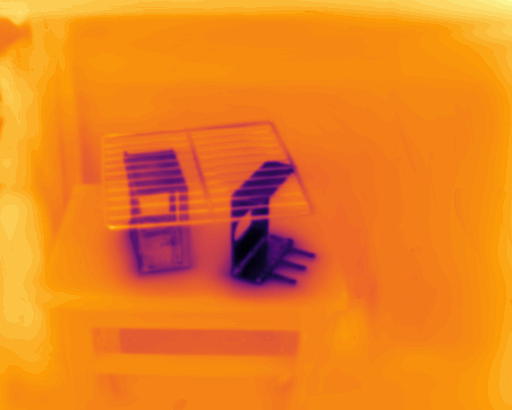
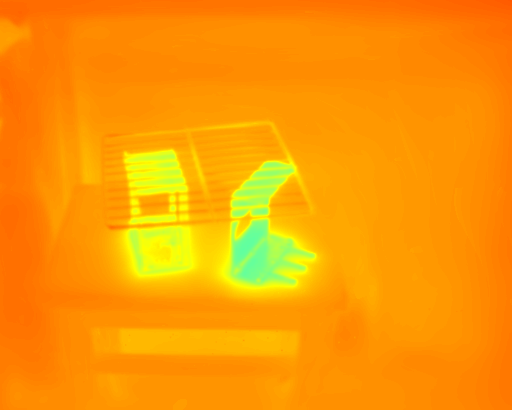
Match RHD pseudo-color palette

diff --git a/README.md b/README.md
@@ -10,48 +10,48 @@ Temporal PhysIR-Splat represents thermal infrared image formation with Gaussian 
 
 ## RHD Results
 
-The gallery shows representative RHD test renderings. Each sample shows grayscale / pseudo-color. `t` is the normalized timestamp used by the temporal renderer.
+The gallery shows representative RHD test renderings. Each sample shows grayscale / RHD-style pseudo-color. `t` is the normalized timestamp used by the temporal renderer.
 
 <table>
 <tr>
-<td width="50%"><img src="assets/rhd_results/cooling_bench_top1_00012.png" width="176"> <img src="assets/rhd_results_pseudo/cooling_bench_top1_00012.png" width="176"><br><sub>gray / pseudo-color</sub><br><b>cooling_bench</b> / view 00012.png<br>t=0.6043, PSNR=46.43, SSIM=0.9939, LPIPS=0.0340</td>
-<td width="50%"><img src="assets/rhd_results/cooling_bench_top2_00023.png" width="176"> <img src="assets/rhd_results_pseudo/cooling_bench_top2_00023.png" width="176"><br><sub>gray / pseudo-color</sub><br><b>cooling_bench</b> / view 00023.png<br>t=0.8952, PSNR=46.22, SSIM=0.9948, LPIPS=0.0288</td>
+<td width="50%"><img src="assets/rhd_results/cooling_bench_top1_00012.png" width="176"> <img src="assets/rhd_results_pseudo/cooling_bench_top1_00012.png" width="176"><br><sub>gray / RHD pseudo</sub><br><b>cooling_bench</b> / view 00012.png<br>t=0.6043, PSNR=46.43, SSIM=0.9939, LPIPS=0.0340</td>
+<td width="50%"><img src="assets/rhd_results/cooling_bench_top2_00023.png" width="176"> <img src="assets/rhd_results_pseudo/cooling_bench_top2_00023.png" width="176"><br><sub>gray / RHD pseudo</sub><br><b>cooling_bench</b> / view 00023.png<br>t=0.8952, PSNR=46.22, SSIM=0.9948, LPIPS=0.0288</td>
 </tr>
 <tr>
-<td width="50%"><img src="assets/rhd_results/cooling_checkboard_top1_00017.png" width="176"> <img src="assets/rhd_results_pseudo/cooling_checkboard_top1_00017.png" width="176"><br><sub>gray / pseudo-color</sub><br><b>cooling_checkboard</b> / view 00017.png<br>t=0.6460, PSNR=50.76, SSIM=0.9950, LPIPS=0.0258</td>
-<td width="50%"><img src="assets/rhd_results/cooling_checkboard_top2_00016.png" width="176"> <img src="assets/rhd_results_pseudo/cooling_checkboard_top2_00016.png" width="176"><br><sub>gray / pseudo-color</sub><br><b>cooling_checkboard</b> / view 00016.png<br>t=0.6436, PSNR=50.68, SSIM=0.9951, LPIPS=0.0299</td>
+<td width="50%"><img src="assets/rhd_results/cooling_checkboard_top1_00017.png" width="176"> <img src="assets/rhd_results_pseudo/cooling_checkboard_top1_00017.png" width="176"><br><sub>gray / RHD pseudo</sub><br><b>cooling_checkboard</b> / view 00017.png<br>t=0.6460, PSNR=50.76, SSIM=0.9950, LPIPS=0.0258</td>
+<td width="50%"><img src="assets/rhd_results/cooling_checkboard_top2_00016.png" width="176"> <img src="assets/rhd_results_pseudo/cooling_checkboard_top2_00016.png" width="176"><br><sub>gray / RHD pseudo</sub><br><b>cooling_checkboard</b> / view 00016.png<br>t=0.6436, PSNR=50.68, SSIM=0.9951, LPIPS=0.0299</td>
 </tr>
 <tr>
-<td width="50%"><img src="assets/rhd_results/cooling_dumbbels_top1_00004.png" width="176"> <img src="assets/rhd_results_pseudo/cooling_dumbbels_top1_00004.png" width="176"><br><sub>gray / pseudo-color</sub><br><b>cooling_dumbbels</b> / view 00004.png<br>t=0.0878, PSNR=44.13, SSIM=0.9944, LPIPS=0.0193</td>
-<td width="50%"><img src="assets/rhd_results/cooling_dumbbels_top2_00023.png" width="176"> <img src="assets/rhd_results_pseudo/cooling_dumbbels_top2_00023.png" width="176"><br><sub>gray / pseudo-color</sub><br><b>cooling_dumbbels</b> / view 00023.png<br>t=0.8137, PSNR=43.55, SSIM=0.9951, LPIPS=0.0179</td>
+<td width="50%"><img src="assets/rhd_results/cooling_dumbbels_top1_00004.png" width="176"> <img src="assets/rhd_results_pseudo/cooling_dumbbels_top1_00004.png" width="176"><br><sub>gray / RHD pseudo</sub><br><b>cooling_dumbbels</b> / view 00004.png<br>t=0.0878, PSNR=44.13, SSIM=0.9944, LPIPS=0.0193</td>
+<td width="50%"><img src="assets/rhd_results/cooling_dumbbels_top2_00023.png" width="176"> <img src="assets/rhd_results_pseudo/cooling_dumbbels_top2_00023.png" width="176"><br><sub>gray / RHD pseudo</sub><br><b>cooling_dumbbels</b> / view 00023.png<br>t=0.8137, PSNR=43.55, SSIM=0.9951, LPIPS=0.0179</td>
 </tr>
 <tr>
-<td width="50%"><img src="assets/rhd_results/cooling_ebike_top1_00027.png" width="176"> <img src="assets/rhd_results_pseudo/cooling_ebike_top1_00027.png" width="176"><br><sub>gray / pseudo-color</sub><br><b>cooling_ebike</b> / view 00027.png<br>t=0.8617, PSNR=48.55, SSIM=0.9957, LPIPS=0.0107</td>
-<td width="50%"><img src="assets/rhd_results/cooling_ebike_top2_00036.png" width="176"> <img src="assets/rhd_results_pseudo/cooling_ebike_top2_00036.png" width="176"><br><sub>gray / pseudo-color</sub><br><b>cooling_ebike</b> / view 00036.png<br>t=0.8861, PSNR=47.54, SSIM=0.9953, LPIPS=0.0126</td>
+<td width="50%"><img src="assets/rhd_results/cooling_ebike_top1_00027.png" width="176"> <img src="assets/rhd_results_pseudo/cooling_ebike_top1_00027.png" width="176"><br><sub>gray / RHD pseudo</sub><br><b>cooling_ebike</b> / view 00027.png<br>t=0.8617, PSNR=48.55, SSIM=0.9957, LPIPS=0.0107</td>
+<td width="50%"><img src="assets/rhd_results/cooling_ebike_top2_00036.png" width="176"> <img src="assets/rhd_results_pseudo/cooling_ebike_top2_00036.png" width="176"><br><sub>gray / RHD pseudo</sub><br><b>cooling_ebike</b> / view 00036.png<br>t=0.8861, PSNR=47.54, SSIM=0.9953, LPIPS=0.0126</td>
 </tr>
 <tr>
-<td width="50%"><img src="assets/rhd_results/heat_transfer_top1_00010.png" width="176"> <img src="assets/rhd_results_pseudo/heat_transfer_top1_00010.png" width="176"><br><sub>gray / pseudo-color</sub><br><b>heat_transfer</b> / view 00010.png<br>t=0.3510, PSNR=46.87, SSIM=0.9949, LPIPS=0.0403</td>
-<td width="50%"><img src="assets/rhd_results/heat_transfer_top2_00009.png" width="176"> <img src="assets/rhd_results_pseudo/heat_transfer_top2_00009.png" width="176"><br><sub>gray / pseudo-color</sub><br><b>heat_transfer</b> / view 00009.png<br>t=0.3485, PSNR=46.74, SSIM=0.9957, LPIPS=0.0376</td>
+<td width="50%"><img src="assets/rhd_results/heat_transfer_top1_00010.png" width="176"> <img src="assets/rhd_results_pseudo/heat_transfer_top1_00010.png" width="176"><br><sub>gray / RHD pseudo</sub><br><b>heat_transfer</b> / view 00010.png<br>t=0.3510, PSNR=46.87, SSIM=0.9949, LPIPS=0.0403</td>
+<td width="50%"><img src="assets/rhd_results/heat_transfer_top2_00009.png" width="176"> <img src="assets/rhd_results_pseudo/heat_transfer_top2_00009.png" width="176"><br><sub>gray / RHD pseudo</sub><br><b>heat_transfer</b> / view 00009.png<br>t=0.3485, PSNR=46.74, SSIM=0.9957, LPIPS=0.0376</td>
 </tr>
 <tr>
-<td width="50%"><img src="assets/rhd_results/heating_workpieces_top1_00013.png" width="176"> <img src="assets/rhd_results_pseudo/heating_workpieces_top1_00013.png" width="176"><br><sub>gray / pseudo-color</sub><br><b>heating_workpieces</b> / view 00013.png<br>t=0.4438, PSNR=45.82, SSIM=0.9960, LPIPS=0.0177</td>
-<td width="50%"><img src="assets/rhd_results/heating_workpieces_top2_00007.png" width="176"> <img src="assets/rhd_results_pseudo/heating_workpieces_top2_00007.png" width="176"><br><sub>gray / pseudo-color</sub><br><b>heating_workpieces</b> / view 00007.png<br>t=0.4243, PSNR=44.77, SSIM=0.9961, LPIPS=0.0165</td>
+<td width="50%"><img src="assets/rhd_results/heating_workpieces_top1_00013.png" width="176"> <img src="assets/rhd_results_pseudo/heating_workpieces_top1_00013.png" width="176"><br><sub>gray / RHD pseudo</sub><br><b>heating_workpieces</b> / view 00013.png<br>t=0.4438, PSNR=45.82, SSIM=0.9960, LPIPS=0.0177</td>
+<td width="50%"><img src="assets/rhd_results/heating_workpieces_top2_00007.png" width="176"> <img src="assets/rhd_results_pseudo/heating_workpieces_top2_00007.png" width="176"><br><sub>gray / RHD pseudo</sub><br><b>heating_workpieces</b> / view 00007.png<br>t=0.4243, PSNR=44.77, SSIM=0.9961, LPIPS=0.0165</td>
 </tr>
 <tr>
-<td width="50%"><img src="assets/rhd_results/warming_bottles_top1_00016.png" width="176"> <img src="assets/rhd_results_pseudo/warming_bottles_top1_00016.png" width="176"><br><sub>gray / pseudo-color</sub><br><b>warming_bottles</b> / view 00016.png<br>t=0.7008, PSNR=44.98, SSIM=0.9938, LPIPS=0.0837</td>
-<td width="50%"><img src="assets/rhd_results/warming_bottles_top2_00014.png" width="176"> <img src="assets/rhd_results_pseudo/warming_bottles_top2_00014.png" width="176"><br><sub>gray / pseudo-color</sub><br><b>warming_bottles</b> / view 00014.png<br>t=0.6920, PSNR=44.94, SSIM=0.9938, LPIPS=0.0879</td>
+<td width="50%"><img src="assets/rhd_results/warming_bottles_top1_00016.png" width="176"> <img src="assets/rhd_results_pseudo/warming_bottles_top1_00016.png" width="176"><br><sub>gray / RHD pseudo</sub><br><b>warming_bottles</b> / view 00016.png<br>t=0.7008, PSNR=44.98, SSIM=0.9938, LPIPS=0.0837</td>
+<td width="50%"><img src="assets/rhd_results/warming_bottles_top2_00014.png" width="176"> <img src="assets/rhd_results_pseudo/warming_bottles_top2_00014.png" width="176"><br><sub>gray / RHD pseudo</sub><br><b>warming_bottles</b> / view 00014.png<br>t=0.6920, PSNR=44.94, SSIM=0.9938, LPIPS=0.0879</td>
 </tr>
 <tr>
-<td width="50%"><img src="assets/rhd_results/warming_cups_top1_00013.png" width="176"> <img src="assets/rhd_results_pseudo/warming_cups_top1_00013.png" width="176"><br><sub>gray / pseudo-color</sub><br><b>warming_cups</b> / view 00013.png<br>t=0.3484, PSNR=46.94, SSIM=0.9951, LPIPS=0.0656</td>
-<td width="50%"><img src="assets/rhd_results/warming_cups_top2_00012.png" width="176"> <img src="assets/rhd_results_pseudo/warming_cups_top2_00012.png" width="176"><br><sub>gray / pseudo-color</sub><br><b>warming_cups</b> / view 00012.png<br>t=0.3453, PSNR=46.94, SSIM=0.9949, LPIPS=0.0695</td>
+<td width="50%"><img src="assets/rhd_results/warming_cups_top1_00013.png" width="176"> <img src="assets/rhd_results_pseudo/warming_cups_top1_00013.png" width="176"><br><sub>gray / RHD pseudo</sub><br><b>warming_cups</b> / view 00013.png<br>t=0.3484, PSNR=46.94, SSIM=0.9951, LPIPS=0.0656</td>
+<td width="50%"><img src="assets/rhd_results/warming_cups_top2_00012.png" width="176"> <img src="assets/rhd_results_pseudo/warming_cups_top2_00012.png" width="176"><br><sub>gray / RHD pseudo</sub><br><b>warming_cups</b> / view 00012.png<br>t=0.3453, PSNR=46.94, SSIM=0.9949, LPIPS=0.0695</td>
 </tr>
 <tr>
-<td width="50%"><img src="assets/rhd_results/warming_peaches_top1_00017.png" width="176"> <img src="assets/rhd_results_pseudo/warming_peaches_top1_00017.png" width="176"><br><sub>gray / pseudo-color</sub><br><b>warming_peaches</b> / view 00017.png<br>t=0.6210, PSNR=46.72, SSIM=0.9954, LPIPS=0.0925</td>
-<td width="50%"><img src="assets/rhd_results/warming_peaches_top2_00020.png" width="176"> <img src="assets/rhd_results_pseudo/warming_peaches_top2_00020.png" width="176"><br><sub>gray / pseudo-color</sub><br><b>warming_peaches</b> / view 00020.png<br>t=0.6283, PSNR=46.64, SSIM=0.9953, LPIPS=0.0850</td>
+<td width="50%"><img src="assets/rhd_results/warming_peaches_top1_00017.png" width="176"> <img src="assets/rhd_results_pseudo/warming_peaches_top1_00017.png" width="176"><br><sub>gray / RHD pseudo</sub><br><b>warming_peaches</b> / view 00017.png<br>t=0.6210, PSNR=46.72, SSIM=0.9954, LPIPS=0.0925</td>
+<td width="50%"><img src="assets/rhd_results/warming_peaches_top2_00020.png" width="176"> <img src="assets/rhd_results_pseudo/warming_peaches_top2_00020.png" width="176"><br><sub>gray / RHD pseudo</sub><br><b>warming_peaches</b> / view 00020.png<br>t=0.6283, PSNR=46.64, SSIM=0.9953, LPIPS=0.0850</td>
 </tr>
 <tr>
-<td width="50%"><img src="assets/rhd_results/warming_workpieces_top1_00015.png" width="176"> <img src="assets/rhd_results_pseudo/warming_workpieces_top1_00015.png" width="176"><br><sub>gray / pseudo-color</sub><br><b>warming_workpieces</b> / view 00015.png<br>t=0.5643, PSNR=47.81, SSIM=0.9955, LPIPS=0.0559</td>
-<td width="50%"><img src="assets/rhd_results/warming_workpieces_top2_00008.png" width="176"> <img src="assets/rhd_results_pseudo/warming_workpieces_top2_00008.png" width="176"><br><sub>gray / pseudo-color</sub><br><b>warming_workpieces</b> / view 00008.png<br>t=0.3236, PSNR=46.97, SSIM=0.9958, LPIPS=0.0379</td>
+<td width="50%"><img src="assets/rhd_results/warming_workpieces_top1_00015.png" width="176"> <img src="assets/rhd_results_pseudo/warming_workpieces_top1_00015.png" width="176"><br><sub>gray / RHD pseudo</sub><br><b>warming_workpieces</b> / view 00015.png<br>t=0.5643, PSNR=47.81, SSIM=0.9955, LPIPS=0.0559</td>
+<td width="50%"><img src="assets/rhd_results/warming_workpieces_top2_00008.png" width="176"> <img src="assets/rhd_results_pseudo/warming_workpieces_top2_00008.png" width="176"><br><sub>gray / RHD pseudo</sub><br><b>warming_workpieces</b> / view 00008.png<br>t=0.3236, PSNR=46.97, SSIM=0.9958, LPIPS=0.0379</td>
 </tr>
 </table>
 
